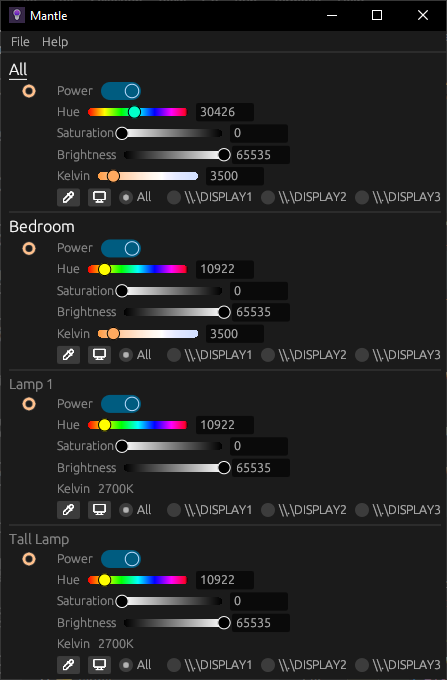
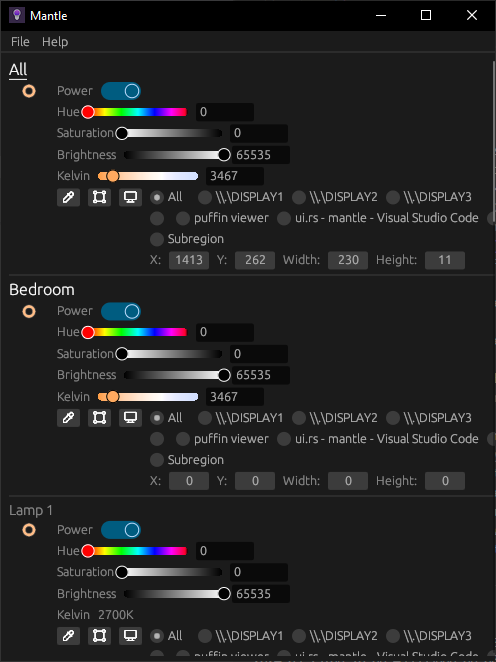
Got 2-point selection working (mostly)

diff --git a/src/ui.rs b/src/ui.rs
@@ -110,6 +110,7 @@ pub fn handle_screencap(
     } else {
         ui.visuals().widgets.inactive.bg_fill
     };
+    handle_get_subregion_bounds(app, ui, device.id());
     if let Some((_tx, rx, _thread)) = app.waveform_trx.get(&device.id()) {
         let follow_state: &mut RunningWaveform =
             app.waveform_map
@@ -297,6 +298,8 @@ pub fn handle_get_subregion_bounds(app: &mut MantleApp, ui: &mut Ui, device_id: 
             if subregion.x == 0 && subregion.y == 0 {
                 subregion.x = mouse_pos.0;
                 subregion.y = mouse_pos.1;
+                // debounce the click (dirty but only way I can think of)
+                thread::sleep(Duration::from_millis(100));
             } else {
                 subregion.width = (mouse_pos.0 - subregion.x).unsigned_abs();
                 subregion.height = (mouse_pos.1 - subregion.y).unsigned_abs();

diff --git a/src/app.rs b/src/app.rs
@@ -16,7 +16,7 @@ use crate::{
     products::TemperatureRange,
     screencap::{FollowType, ScreenSubregion},
     toggle_button,
-    ui::{handle_eyedropper, handle_get_subregion_bounds, handle_screencap},
+    ui::{handle_eyedropper, handle_screencap},
     BulbInfo, Manager, ScreencapManager,
 };
 
@@ -167,7 +167,6 @@ impl MantleApp {
                     ui.horizontal(|ui| {
                         after_color = handle_eyedropper(self, ui, device).unwrap_or(after_color);
                         after_color = handle_screencap(self, ui, device).unwrap_or(after_color);
-                        handle_get_subregion_bounds(self, ui, device.id());
                     });
                     if before_color != after_color.next {
                         match device {
